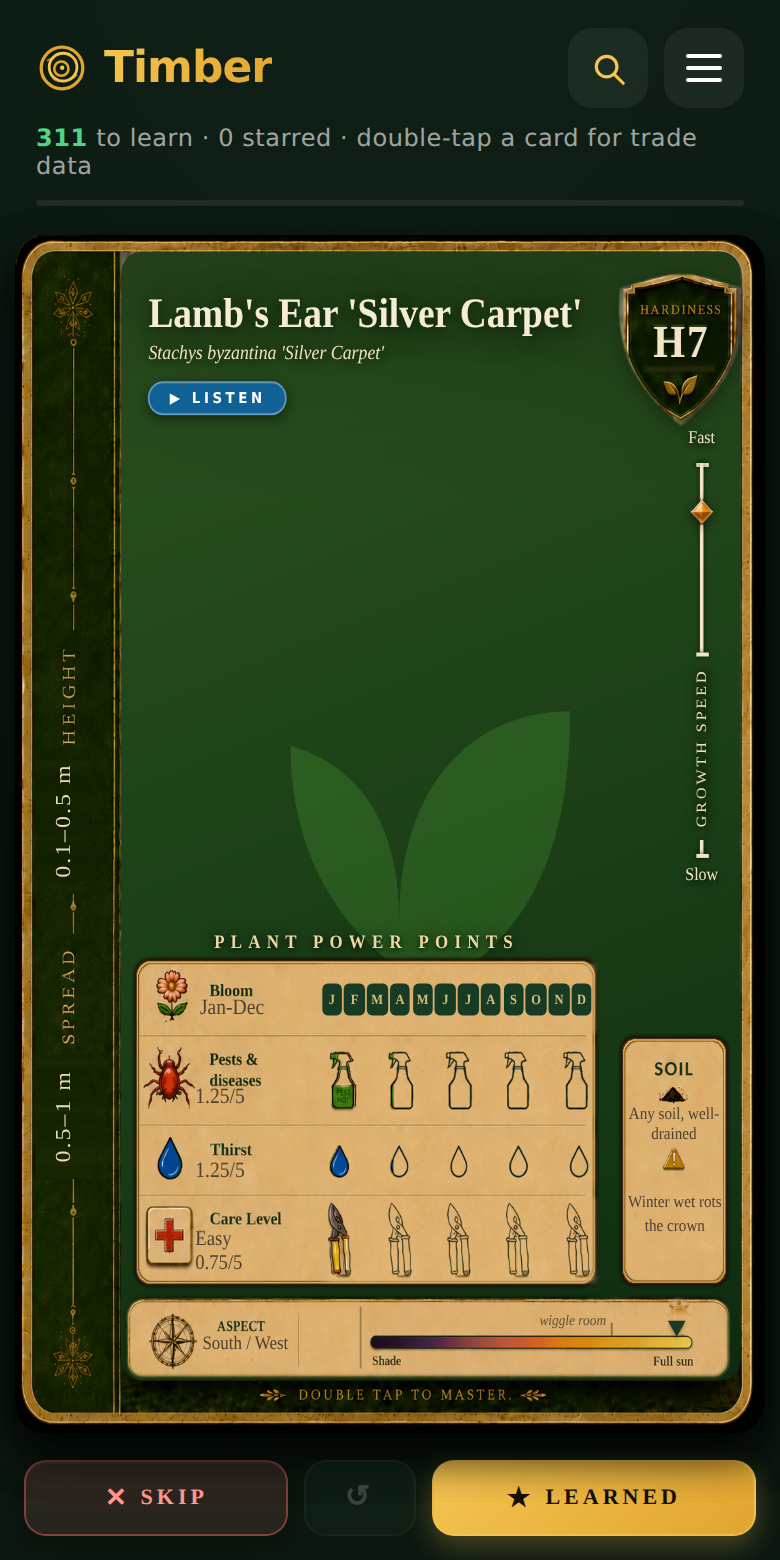
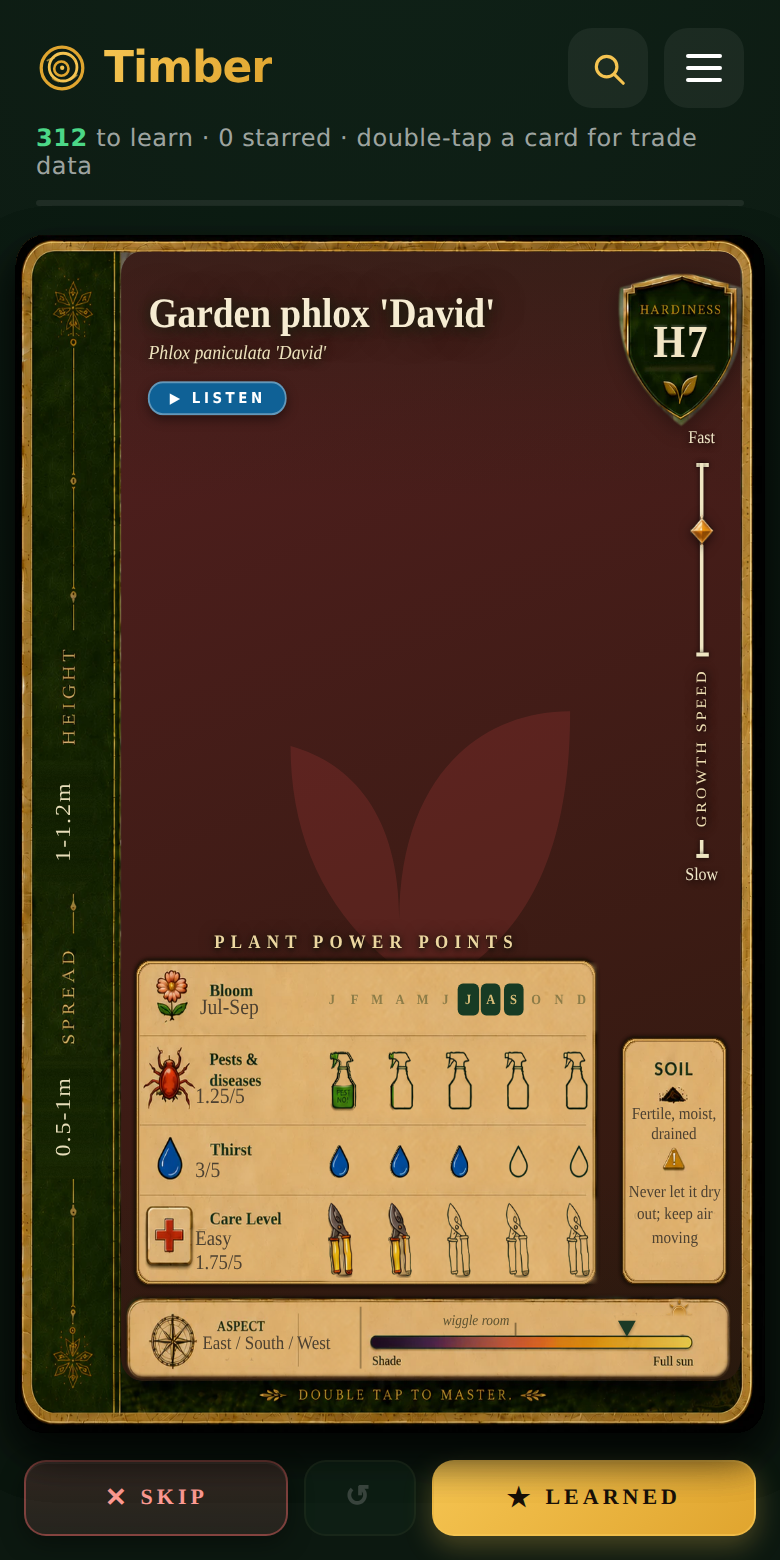
Four climbers sized and the Phlox dealt: 312 / 82 — the size-no-rails class is gone
CLIMBERS. Oscar supplied verified figures for the four cards that carried a height-only
size string with no "H × W" split, so both rails rendered blank on every one:

  Clematis viticella 'Purpurea Plena Elegans'  2-3m    -> 1.5–2.5 m H × 0.5–1 m W
  Clematis montana var. rubens                 8-12m   -> 8–12 m H × 4–8 m W
  Clematis armandii                            4-6m    -> 4–8 m H × 1.5–2.5 m W
  Fallopia baldschuanica                       10-15m  -> 8–12 m H × 4–8 m W

Three of the four heights changed too. Those four were his own earlier data, not from
the Claude-generated batch, and his verified figures supersede them - the Russian Vine
came down from 10-15m to 8–12m. His note that 8–12 m is for standard forms of the
montana is recorded on the card.

All four lines were REMOVED from plant-sense's KNOWN set rather than left sitting there.
That list holds defects waiting on a horticultural call; the call has been made, and
plant-sense now reports zero size-no-rails findings across 392 cards. The web search I
ran for these figures matched his on two of four and was [Unverified] on the rest; his
label figures are what went in.

PHLOX. Parked since 2026-08-09, identified 08-13, JSON arrived today - a month in
photos/unidentified/ as the only photo-waiting-for-card in the folder. Card built and
dealt.

Rendered and checked before calling it done, and it is not quite done: the frame is
[…]

diff --git a/timber.html b/timber.html
@@ -1163,7 +1163,7 @@
 
 <script>
 /* ---------- latin pronunciation (built-in speech engine — offline, no files, no deps) ---------- */
-const BUILD='r229 · 2026-09-13 · b5cc22d';
+const BUILD='r230 · 2026-09-13 · 0e656fd';
 /* Shown in the menu foot so a phone's version is checkable at a glance — the SW
    serves the previous build once before swapping, which made "which build am I
    on?" a real question. DO NOT EDIT BY HAND: the trailing hash is a digest of
@@ -9193,45 +9193,98 @@ const PLANTS = [
    size:"2.5-4m H × 1.5-2.5m W",
    hardinessNote:"Hardy through most of the UK, approximately -10 to -5°C, but best in a warm sheltered position.",
    growthSpeed:10, pestRisk:2, thirst:8, careLevel:7, sunNeed:95, sunMin:75},
-   {common:"Japanese Maple 'Orangeola'", latin:"Acer palmatum 'Orangeola'", hue:15,
+
+  {common:"Japanese Maple 'Orangeola'", latin:"Acer palmatum 'Orangeola'", hue:15,
    visual:"Mound-forming deciduous Japanese maple with graceful arching branches and finely dissected lace-like foliage.",
    water:"Keep evenly moist during establishment and water during prolonged dry periods, particularly when container grown.",
    aspect:"East / West",
    soil:"Fertile, drained, acidic; Wind and dry soil scorch the lace leaf",
    prune:"Requires little routine pruning. Remove dead, damaged or unwanted branches during dormancy and avoid heavy pruning.",
-   source:"", peak:"Sep-Nov", order:"", bench:"", root:"",
-   trade:"", retail:"", margin:"", type:"", shrink:"", returnRisk:"", pots:"",
+   source:"",
+   peak:"Sep-Nov",
+   order:"",
+   bench:"",
+   root:"",
+   trade:"",
+   retail:"",
+   margin:"",
+   type:"",
+   shrink:"",
+   returnRisk:"",
+   pots:"",
    cvs:"'Orangeola'",
-   hardiness:"H6", resilience:"Very cold hardy but the fine foliage is vulnerable to wind scorch and moisture stress.",
-   uses:"Japanese gardens, specimen planting, courtyards, rock gardens, banks, slopes and containers.", size:"2.5–4 m H × 1.5–2.5 m W",
+   hardiness:"H6",
+   resilience:"Very cold hardy but the fine foliage is vulnerable to wind scorch and moisture stress.",
+   uses:"Japanese gardens, specimen planting, courtyards, rock gardens, banks, slopes and containers.",
+   size:"2.5–4 m H × 1.5–2.5 m W",
    hardinessNote:"Hardy throughout the UK and northern Europe, approximately -20 to -15°C.",
    seasonalImpact:"", growthSpeed:8, pestRisk:7, thirst:12, careLevel:8, sunNeed:55, sunMin:30},
+
   {common:"Peony 'Tom Cat'", latin:"Paeonia lactiflora 'Tom Cat'", hue:335,
    visual:"Clump-forming herbaceous peony with glossy dark green divided foliage and large, fragrant, richly coloured flowers.",
    water:"Water regularly during establishment and during prolonged dry periods.",
    aspect:"East / South / West",
    soil:"Deep, fertile, humus-rich; Plant the crown shallow or it won't flower",
    prune:"Remove spent flowers as they fade. Cut stems and foliage back to near ground level as the plant dies down in autumn.",
-   source:"", peak:"May-Jun", order:"", bench:"", root:"",
-   trade:"", retail:"", margin:"", type:"", shrink:"", returnRisk:"", pots:"",
+   source:"",
+   peak:"May-Jun",
+   order:"",
+   bench:"",
+   root:"",
+   trade:"",
+   retail:"",
+   margin:"",
+   type:"",
+   shrink:"",
+   returnRisk:"",
+   pots:"",
    cvs:"'Tom Cat'",
-   hardiness:"H6", resilience:"Very hardy, long-lived herbaceous perennial that can remain productive for decades when planted correctly and left relatively undisturbed.",
-   uses:"Herbaceous borders, cottage gardens, mixed borders, specimen planting and cut-flower gardens.", size:"0.5–1 m H × 0.5–1 m W",
-   toxicity:"May cause skin irritation in pets.", hardinessNote:"Hardy throughout the UK and northern Europe, approximately -20 to -15°C.",
+   hardiness:"H6",
+   resilience:"Very hardy, long-lived herbaceous perennial that can remain productive for decades when planted correctly and left relatively undisturbed.",
+   uses:"Herbaceous borders, cottage gardens, mixed borders, specimen planting and cut-flower gardens.",
+   size:"0.5–1 m H × 0.5–1 m W",
+   toxicity:"May cause skin irritation in pets.",
+   hardinessNote:"Hardy throughout the UK and northern Europe, approximately -20 to -15°C.",
    seasonalImpact:"", growthSpeed:9, pestRisk:6, thirst:11, careLevel:7, sunNeed:80, sunMin:50},
+
   {common:"Lamb's Ear 'Silver Carpet'", latin:"Stachys byzantina 'Silver Carpet'", hue:105,
    visual:"Low, vigorous evergreen carpeting perennial forming a dense mat of exceptionally soft, woolly silver-grey leaves.",
    water:"Water during establishment, then only during prolonged dry periods.",
    aspect:"South / West",
    soil:"Any soil, well-drained; Winter wet rots the crown",
    prune:"No routine pruning required. Remove damaged or untidy foliage as needed.",
-   source:"", peak:"Jan-Dec", order:"", bench:"", root:"",
-   trade:"", retail:"", margin:"", type:"", shrink:"", returnRisk:"", pots:"",
+   source:"",
+   peak:"Jan-Dec",
+   order:"",
+   bench:"",
+   root:"",
+   trade:"",
+   retail:"",
+   margin:"",
+   type:"",
+   shrink:"",
+   returnRisk:"",
+   pots:"",
    cvs:"'Silver Carpet'",
-   hardiness:"H7", resilience:"Exceptionally cold hardy, drought tolerant once established and effective as dense weed-suppressing ground cover, but less tolerant of prolonged winter wet.",
-   uses:"Ground cover, gravel gardens, border edging, sensory planting, rose underplanting and sunny dry borders.", size:"0.1–0.5 m H × 0.5–1 m W",
+   hardiness:"H7",
+   resilience:"Exceptionally cold hardy, drought tolerant once established and effective as dense weed-suppressing ground cover, but less tolerant of prolonged winter wet.",
+   uses:"Ground cover, gravel gardens, border edging, sensory planting, rose underplanting and sunny dry borders.",
+   size:"0.1–0.5 m H × 0.5–1 m W",
    hardinessNote:"Extremely hardy, below -20°C; RHS rates this cultivar H7.",
    seasonalImpact:"", growthSpeed:15, pestRisk:5, thirst:5, careLevel:3, sunNeed:95, sunMin:75},
+   {common:"Garden phlox 'David'", latin:"Phlox paniculata 'David'", hue:0,
+   visual:"Fragrant pure-white flower panicles · tall upright stems · dark green foliage · notably good mildew resistance",
+   water:"Keep evenly moist, especially during dry spells",
+   aspect:"East / South / West",
+   soil:"Fertile, moist, drained; Never let it dry out; keep air moving",
+   prune:"Deadhead to prolong flowering; cut stems to ground in late autumn",
+   source:"", peak:"Jul-Sep", order:"", bench:"", root:"",
+   trade:"", retail:"", margin:"", type:"", shrink:"", returnRisk:"", pots:"",
+   cvs:"'David'",
+   hardiness:"H7", resilience:"Very hardy and notably resistant to powdery mildew, though leaf spot and downy mildew can occasionally occur",
+   uses:"Herbaceous borders · cottage gardens · wildlife gardens · cut flowers · pollinator planting", size:"1-1.2m H × 0.5-1m W",
+   hardinessNote:"Fully hardy throughout the UK; tolerates below -20°C",
+   seasonalImpact:"", growthSpeed:13, pestRisk:5, thirst:12, careLevel:7, sunNeed:80, sunMin:45},
 ];
 /* PLANTS:END */
 /* HOLD:BEGIN — managed by plants-tool.js; keep this marker pair.
@@ -9313,7 +9366,7 @@ const PLANTS_ON_HOLD=[
    hardiness:"H5",
    resilience:"Very reliable",
    uses:"Trellis, obelisks, through shrubs",
-   size:"2-3m",
+   size:"1.5–2.5 m H × 0.5–1 m W",
    seasonalImpact:"", growthSpeed:"", pestRisk:"", thirst:"", careLevel:"", sunNeed:65, sunMin:40},
 
   {common:"Clematis montana var. rubens", latin:"Clematis montana var. rubens", hue:315,
@@ -9338,7 +9391,7 @@ const PLANTS_ON_HOLD=[
    hardiness:"H5",
    resilience:"Very vigorous",
    uses:"Walls, trees, large structures",
-   size:"8-12m",
+   size:"8–12 m H × 4–8 m W",
    seasonalImpact:"", growthSpeed:"", pestRisk:"", thirst:"", careLevel:"", sunNeed:65, sunMin:30},
 
   {common:"Evergreen Clematis", latin:"Clematis armandii", hue:200,
@@ -9363,7 +9416,7 @@ const PLANTS_ON_HOLD=[
    hardiness:"H4",
    resilience:"Good in sheltered spot",
    uses:"Walls, pergolas, evergreen screen",
-   size:"4-6m",
+   size:"4–8 m H × 1.5–2.5 m W",
    seasonalImpact:"", growthSpeed:"", pestRisk:"", thirst:"", careLevel:"", sunNeed:75, sunMin:45},
 
   {common:"Russian Vine", latin:"Fallopia baldschuanica", hue:220,
@@ -9388,7 +9441,7 @@ const PLANTS_ON_HOLD=[
    hardiness:"H5",
    resilience:"Extremely vigorous - needs space",
    uses:"Covering ugly structures, quick screen",
-   size:"10-15m",
+   size:"8–12 m H × 4–8 m W",
    seasonalImpact:"", growthSpeed:"", pestRisk:"", thirst:"", careLevel:"", sunNeed:70, sunMin:35},
 
   {common:"Vial's primrose", latin:"Primula vialii", hue:278,

diff --git a/tools/fit-incoming.js b/tools/fit-incoming.js
@@ -39,6 +39,8 @@
    warn  <= 44 chars — a real constraint, not a restatement of soil.
    face  — compass facing; omit to derive from the sun band. */
 const FIT = {
+  "Phlox paniculata 'David'":
+    { soil: 'Fertile, moist, drained', warn: 'Never let it dry out; keep air moving' },
   "Stachys byzantina 'Silver Carpet'":
     { soil: 'Any soil, well-drained', warn: 'Winter wet rots the crown' },
   "Acer palmatum 'Sango-kaku'":

diff --git a/tools/plant-sense.js b/tools/plant-sense.js
@@ -46,10 +46,6 @@ const KNOWN = new Set([
      Snowball 'Popcorn' under "Accepted, not defects". */
   'Prunus serrula|peak-vs-prose',
   "Pyracantha SAPHYR ORANGE ('Cadange')|peak-vs-prose",
-  "Clematis viticella 'Purpurea Plena Elegans'|size-no-rails",
-  'Clematis montana var. rubens|size-no-rails',
-  "Clematis armandii|size-no-rails",
-  'Fallopia baldschuanica|size-no-rails',
 ]);
 
 const issues = [];

diff --git a/VERIFY-QUEUE.md b/VERIFY-QUEUE.md
@@ -3645,6 +3645,69 @@ holds however the panel is anchored.
 a longer note — its panel fits today at 17..153 with 9px to spare. The centring branch
 now catches it if it ever stops fitting, and the new test would fail if it did not.
 
+### 84. The last four `size-no-rails` defects closed, and a card whose photograph does not show what the card sells
+
+#### Four climbers sized — the defect class is gone, not silenced
+
+Oscar supplied verified figures for the four climbers that had a height-only `size`
+string with no `H × W` split, so **both rails rendered blank** on every one:
+
+| card | was | now |
+|---|---|---|
+| *Clematis viticella* 'Purpurea Plena Elegans' | `2-3m` | `1.5–2.5 m H × 0.5–1 m W` |
+| *Clematis montana* var. *rubens* | `8-12m` | `8–12 m H × 4–8 m W` |
+| *Clematis armandii* | `4-6m` | `4–8 m H × 1.5–2.5 m W` |
+| *Fallopia baldschuanica* | `10-15m` | `8–12 m H × 4–8 m W` |
+
+**Three of the four heights changed too.** Those cards were not from the
+Claude-generated batch — they were Oscar's own earlier data — and his verified figures
+supersede them. The Russian Vine in particular came down from `10-15m` to `8–12 m`.
+
+His *Clematis montana* note, recorded because it qualifies the number: *8–12 m is for
+standard forms.*
+
+**All four `size-no-rails` lines were REMOVED from `plant-sense`'s `KNOWN` set**, not
+left sitting there. That list exists to hold defects waiting on a horticultural call,
+and this call has been made — `plant-sense` now reports **zero** `size-no-rails`
+findings on 392 cards. The earlier search I ran for these figures matched Oscar's on
+two of four and was `[Unverified]` on the rest; his label figures were the ones used.
+
+#### `Phlox paniculata` 'David' — the photograph does not show the flowers
+
+Parked since **2026-08-09**, identified by Oscar on 08-13, and the JSON arrived
+2026-09-13 — a month in `photos/unidentified/` waiting on stats, the only case in the
+folder running photo-waiting-for-card rather than card-waiting-for-photo.
+
+Card built and dealt. **Rendered and checked before saying it was fine, and it is not
+quite fine:** the frame is dominated by dark green lanceolate foliage — textbook
+*P. paniculata*, opposite leaves on upright stems, unmistakably the right plant — while
+the white panicles sit at the very top, **soft-focus and cut off**. On the card they
+read as a pale blur behind the title, not as flowers.
+
+The `visual` leads with *"Fragrant pure-white flower panicles"*. That clause is the
+reason someone buys 'David', and it is the one thing the photograph does not deliver.
+
+**Weaker than the Actinidia case** — that frame *contradicted* its card's variegation
+line, and Oscar's call was to hold it. This one does not contradict anything; it simply
+under-sells. So the card is dealt rather than held, and the gap is flagged instead.
+
+**Timing, which is the actionable part:** `peak` is Jul-Sep and today is 13 September.
+The flowering window is open and closes within weeks. Exactly the Callicarpa situation
+in item 79 — that card was blocked on a berry photograph, Oscar took one the same day,
+and it is now one of the strongest cards in the deck. A flower shot this week would do
+the same here; next year is the alternative.
+
+No crop can fix it: the panicles are out of focus in the source, so `PHOTO_FOCUS` would
+only enlarge the blur. Not attempted for that reason.
+
+#### Also
+
+Oscar's `latin` on this JSON already carried the cultivar (`Phlox paniculata 'David'`)
+**and** supplied `cvs: "'David'"`. The batch preparer joins `latin + cvs`, which would
+have produced `Phlox paniculata 'David' 'David'` — a card name, a photo slug and a
+duplicate check all built on a doubled cultivar. Guarded: the join is skipped when the
+latin already contains the cultivar. Worth knowing the incoming shape varies on this.
+
 ---
 
 ## Accepted, not defects

diff --git a/photos/unidentified/README.md b/photos/unidentified/README.md
@@ -6,7 +6,18 @@ identified but waiting on a card. Nothing here is wired into the app.
 `photos/` is scanned non-recursively by `tools/data-audit.js`, so this
 subdirectory is invisible to the audit and cannot be mistaken for a card photo.
 
-## 2026-08-09-white-panicles-lanceolate-leaves.jpg
+## 2026-08-09-white-panicles-lanceolate-leaves.jpg — CLEARED 2026-09-13
+
+**Dealt as `Phlox paniculata` 'David'.** Oscar sent the JSON on 2026-09-13, a month
+after confirming the identification. The card is built and in the deck.
+
+**Flagged on the card, not a blocker:** the panicles are soft-focus and cut off at the
+top of this frame, so the card's leading clause — *"Fragrant pure-white flower
+panicles"* — reads as a pale blur. The foliage is unmistakably right. `peak` is Jul-Sep
+and the flowering window closes within weeks; a flower shot this season would replace
+it. See VERIFY-QUEUE item 84.
+
+### Original record
 
 **Confirmed *Phlox paniculata* by Oscar on 2026-08-13** — the guess made at the
 time it arrived, from leaf and inflorescence shape alone, was correct. **Awaiting
